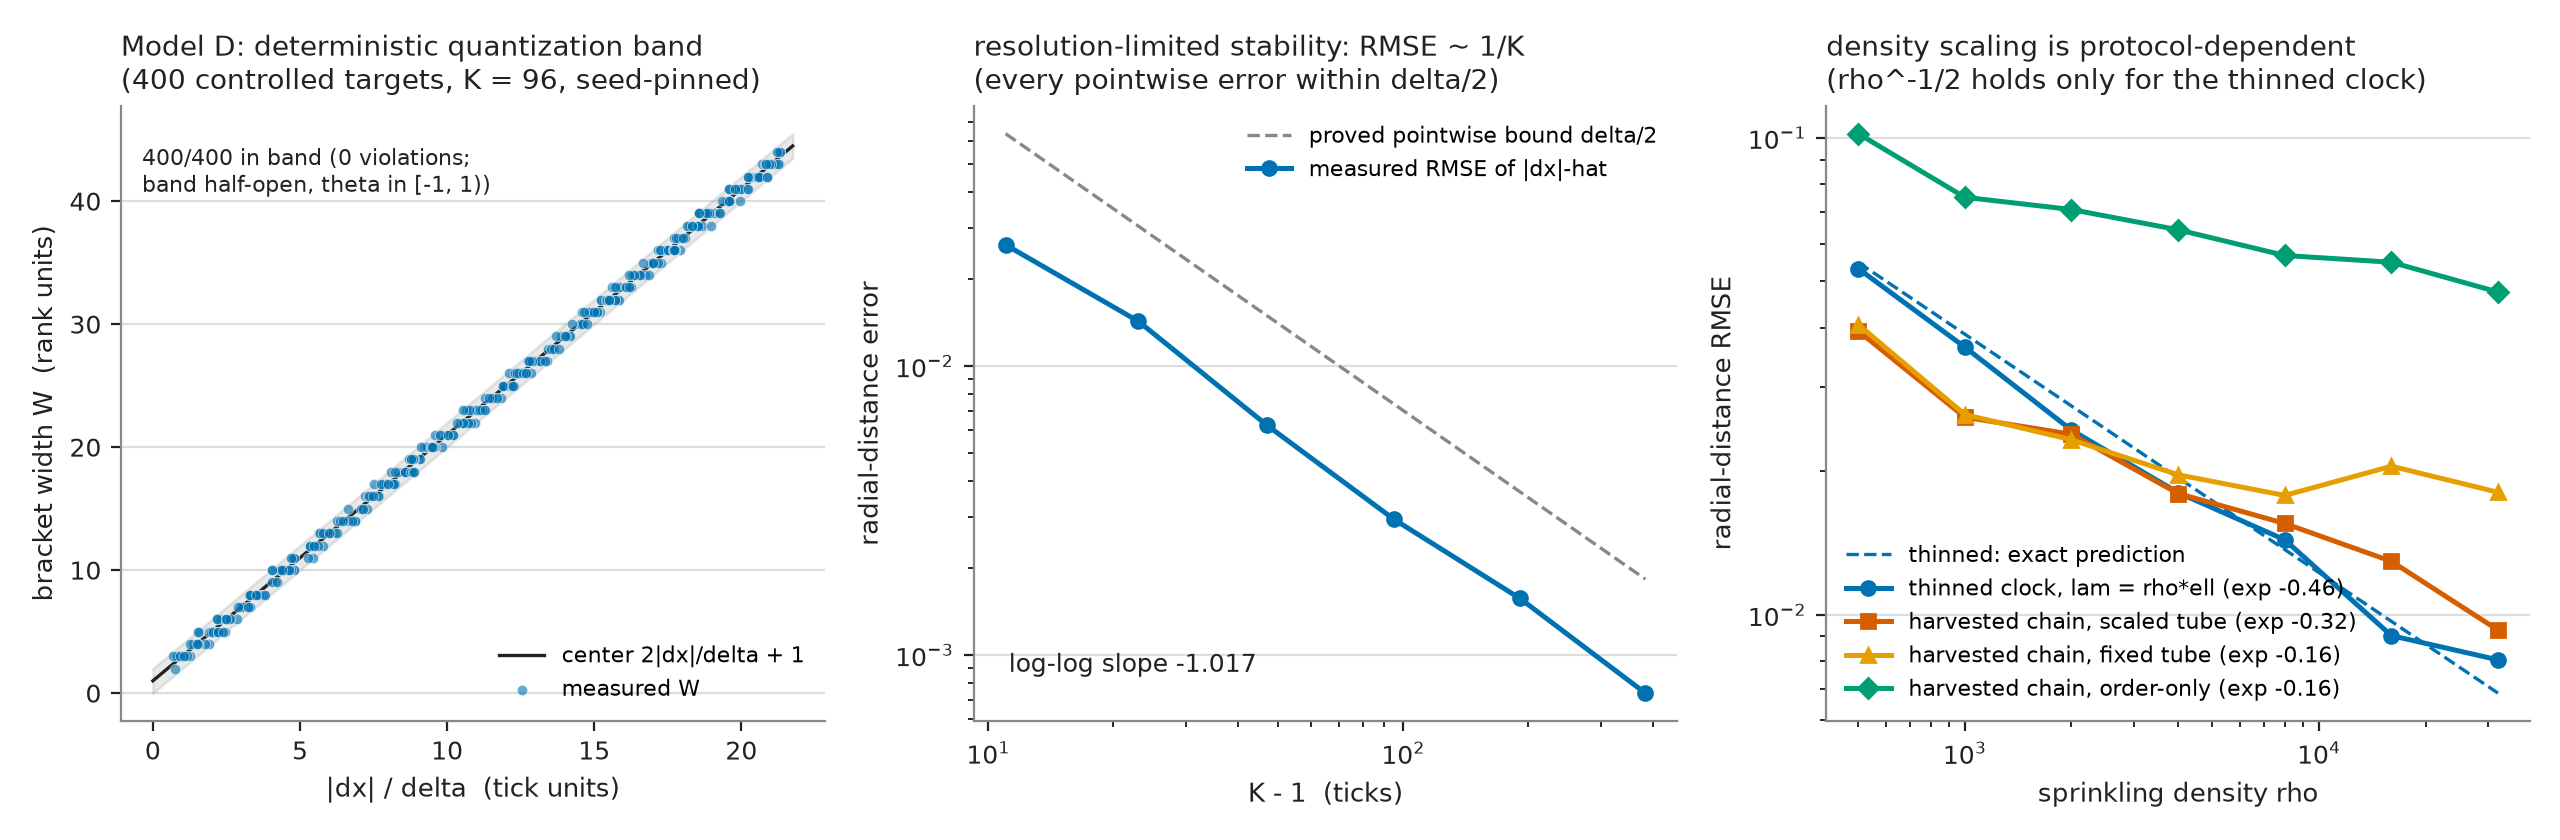
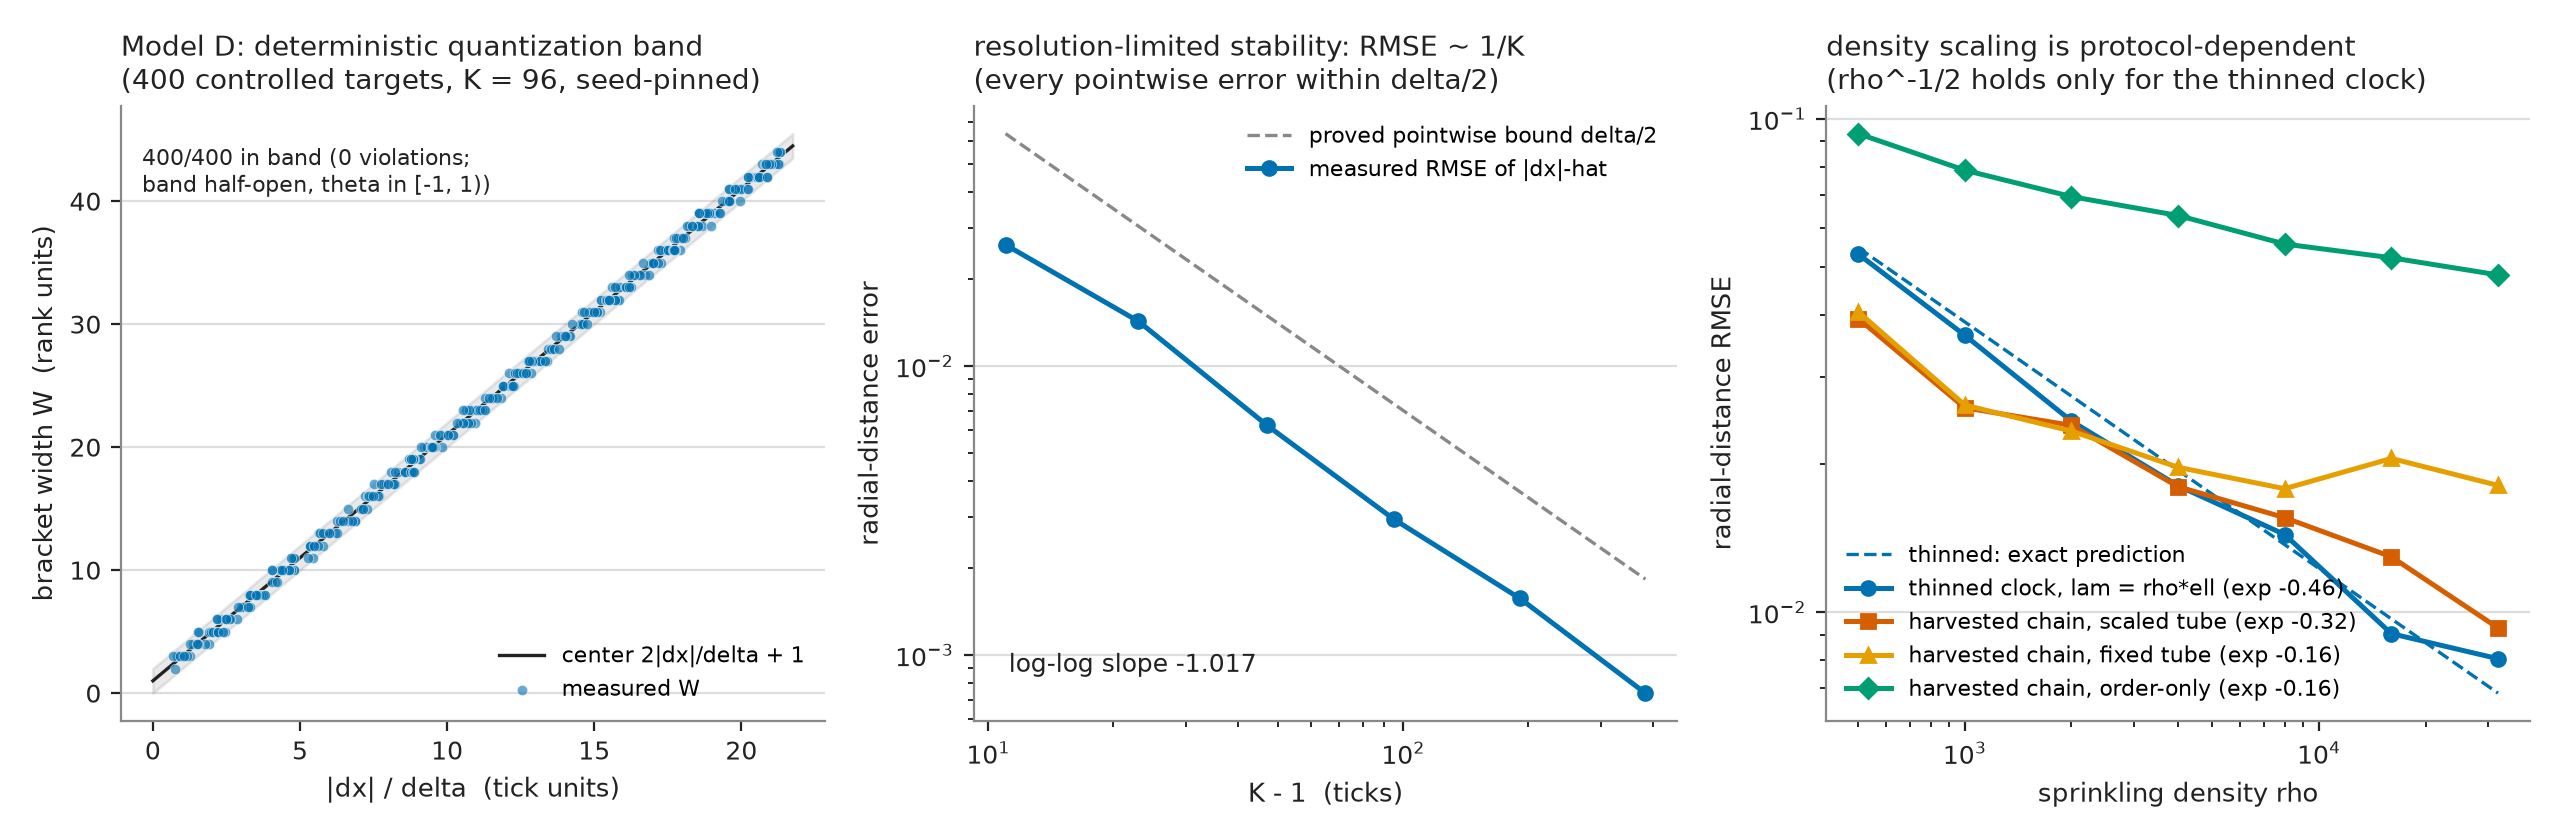
Order-only harvest: break maximum-chain ties by labels, not coordinates
Review catch (P1): with the (u, v)-sort patience-LIS, the choice AMONG
the typically many maximum chains depended on the embedding's
left-right structure -- information a labelled causal order does not
carry -- so a spatial reflection (order- and label-preserving) could
change the realized chain, and the 'order-only causal set reproduces
the harvest exactly' claim failed for the specific representative.

Fix (the review's first option, an explicit order/label tie-break):
compute B(x) = longest-chain length from x to the top anchor (an order
invariant; patience sorting remains the O(k log k) algorithm, with
coordinates only as the machine representation of the relation), then
reconstruct one maximum chain bottom-up, at each step taking the
candidate above the current element with B one less and the smallest
bulk index. Every ingredient is a function of (labelled order, anchor
designation); ties break by labels, never by coordinates. The
exchange-argument feasibility of each greedy step is noted inline.

Pinned: the constructor audit gains a reflection-invariance check
(5/5 scenes) and a new regression asserts index-identical harvests
under a spatial reflection AND a boost, alongside the existing
causal-matrix DP longest-chain length cross-check.

Re-measured with the label-based selector: chain length is a
tie-invariant, so the rate exponent is unchanged to the digit
(+0.516); the realized chains differ slightly -- transverse RMS
[…]

Changed region(s): [[0.6875, 0.2786, 1.0, 0.8048], [0.75, 0.1857, 1.0, 0.3714], [0.6875, 0.1238, 0.75, 0.1857]]

diff --git a/src/causal_spacetime_lab/density_coupled_clocks.py b/src/causal_spacetime_lab/density_coupled_clocks.py
@@ -153,17 +153,22 @@ def harvest_order_only_chain_1p1(
     itself (made once by the caller, e.g. via ``nearest_event_index``)
     and nothing else.
 
-    Implementation notes. In the 1+1D diamond the (generic) causal
-    order is the strict product order on lightcone coordinates
-    ``(u, v) = (t + x, t - x)``, so a longest chain is a longest
-    strictly-increasing-in-``v`` subsequence of the interior candidates
-    sorted by ``(u ascending, v descending)`` -- computed by patience
-    sorting in O(k log k). The coordinates enter only as an algorithm
-    for evaluating the order relation; the OUTPUT depends on the order
-    (plus the deterministic tie rule of that sort), so the harvest is a
-    pure function of its inputs. Among the typically many longest
-    chains this returns one canonical representative; that residual
-    choice is a tie-break, not extra geometric data.
+    Implementation notes. Every ingredient of the selection is a
+    function of the labelled order alone: interval membership (causal
+    comparability with the anchors), the per-element longest-chain
+    lengths ``B(x)`` = length of a longest chain from ``x`` to the top
+    anchor (an order invariant, computed in O(k log k) by patience
+    sorting on lightcone coordinates -- the coordinates enter only as
+    the machine representation of the order relation, and the computed
+    lengths do not depend on that representation), and, among the
+    typically many maximum chains, a greedy **minimal-label** choice:
+    the chain is built bottom-up, at each step taking the candidate
+    with ``B`` one less than the current element's that is above the
+    current element and has the smallest bulk index. Ties therefore
+    break by element LABELS, never by coordinates: relabelling can
+    change the representative, but coordinate presentations of the
+    same labelled order (e.g. a spatial reflection) cannot -- asserted
+    as a reflection-invariance audit and regression.
     """
 
     events = np.asarray(events, dtype=float)
@@ -187,35 +192,56 @@ def harvest_order_only_chain_1p1(
     if candidates.size == 0:
         return np.array([bottom, top], dtype=int)
 
-    sort = candidates[np.lexsort((-v[candidates], u[candidates]))]
-    vs = v[sort]
-    n = sort.size
-    parent = np.full(n, -1, dtype=int)
-    tails_v: list[float] = []
-    tails_pos: list[int] = []
-    for i in range(n):
-        lo, hi = 0, len(tails_v)
-        while lo < hi:  # bisect_left: first tail >= vs[i] (strict LIS)
+    su = u[candidates]
+    sv = v[candidates]
+    # B[i] = longest-chain length among candidates STARTING at i: an
+    # order invariant (ends-at lengths of the reversed order)
+    b_len = _strict_chain_lengths_ending_at(-su, -sv)
+    m = int(b_len.max())
+
+    # greedy minimal-label reconstruction of one maximum chain: at each
+    # step the feasible pool is nonempty by the exchange argument
+    # (any successor of the current element on a maximum chain has B
+    # exactly one less), and the pick reads labels only
+    chain_local: list[int] = []
+    cur = -1
+    for need in range(m, 0, -1):
+        pool = np.flatnonzero(b_len == need)
+        if cur >= 0:
+            pool = pool[(su[pool] > su[cur]) & (sv[pool] > sv[cur])]
+        pick = int(pool[np.argmin(candidates[pool])])
+        chain_local.append(pick)
+        cur = pick
+    interior = candidates[np.array(chain_local, dtype=int)]
+    return np.concatenate(([bottom], interior, [top])).astype(int)
+
+
+def _strict_chain_lengths_ending_at(
+    a: NDArray[np.float64], b: NDArray[np.float64]
+) -> NDArray[np.int_]:
+    """Length of the longest strict product-order chain ending at each
+    element (``x < y`` iff ``a_x < a_y`` and ``b_x < b_y``), by patience
+    sorting in O(k log k). The returned lengths are order invariants of
+    the input point set; the sort is internal machinery only."""
+
+    order = np.lexsort((-b, a))  # a ascending, b descending: no same-a chains
+    lengths = np.zeros(a.size, dtype=int)
+    tails: list[float] = []
+    for i in order:
+        value = float(b[i])
+        lo, hi = 0, len(tails)
+        while lo < hi:  # bisect_left: first tail >= value (strict chains)
             mid = (lo + hi) // 2
-            if tails_v[mid] < vs[i]:
+            if tails[mid] < value:
                 lo = mid + 1
             else:
                 hi = mid
-        if lo == len(tails_v):
-            tails_v.append(float(vs[i]))
-            tails_pos.append(i)
+        if lo == len(tails):
+            tails.append(value)
         else:
-            tails_v[lo] = float(vs[i])
-            tails_pos[lo] = i
-        parent[i] = tails_pos[lo - 1] if lo > 0 else -1
-
-    chain_local: list[int] = []
-    j = tails_pos[-1]
-    while j >= 0:
-        chain_local.append(j)
-        j = int(parent[j])
-    interior = sort[np.array(chain_local[::-1], dtype=int)]
-    return np.concatenate(([bottom], interior, [top])).astype(int)
+            tails[lo] = value
+        lengths[i] = lo + 1
+    return lengths
 
 
 def chain_is_causal(chain_events: NDArray[np.float64]) -> bool:

diff --git a/tests/test_t1_g2_density_scaling.py b/tests/test_t1_g2_density_scaling.py
@@ -144,6 +144,36 @@ def test_order_only_anchor_validation_rejects_non_causal_pairs():
     assert list(idx) == [0, 2]
 
 
+def test_order_only_harvest_is_invariant_under_order_preserving_maps():
+    """The review's counterexample class, pinned: a spatial reflection
+    (and a boost) preserves the labelled causal order and the anchors,
+    so the harvested chain -- whose tie-break among maximum chains
+    reads element labels, never coordinates -- must be identical
+    index-by-index across these coordinate presentations."""
+
+    for seed in (7, 21):
+        bulk = sprinkle_1p1_causal_diamond(2000, T=2.0, seed=seed)
+        bottom = nearest_event_index(bulk, -0.6, -0.3)
+        top = nearest_event_index(bulk, 0.6, -0.3)
+        idx = harvest_order_only_chain_1p1(bulk, bottom, top)
+
+        reflected = bulk.copy()
+        reflected[:, 1] = -reflected[:, 1]
+        assert np.array_equal(
+            idx, harvest_order_only_chain_1p1(reflected, bottom, top)
+        )
+
+        k = 1.7  # boost: (u, v) -> (k u, v / k) preserves the order
+        u = bulk[:, 0] + bulk[:, 1]
+        v = bulk[:, 0] - bulk[:, 1]
+        boosted = np.column_stack(
+            [(k * u + v / k) / 2.0, (k * u - v / k) / 2.0]
+        )
+        assert np.array_equal(
+            idx, harvest_order_only_chain_1p1(boosted, bottom, top)
+        )
+
+
 def test_order_only_audit_passes_with_dp_cross_validation():
     """The audit includes an independent causal-matrix DP length check:
     patience sorting must return an order-theoretic LONGEST chain."""

diff --git a/experiments/theory/t1_g2_density_scaling.py b/experiments/theory/t1_g2_density_scaling.py
@@ -138,11 +138,14 @@ def audit_harvested_chains(seed: int = 11, scenes: int = 5) -> dict:
 
 def audit_order_only_chains(seed: int = 13, scenes: int = 5) -> dict:
     """Constructor audit for the order-only harvest: chain property,
-    anchor endpoints, interval containment, determinism, and -- at low
-    density, where the matrix is affordable -- longest-chain LENGTH
-    equality against an independent causal-matrix DP (the patience-
-    sorting implementation must reproduce the order-theoretic optimum,
-    not just some chain)."""
+    anchor endpoints, interval containment, determinism, REFLECTION
+    invariance (a spatial reflection preserves the labelled order and
+    must preserve the harvested chain exactly -- the tie-break reads
+    labels, not coordinates), and -- at low density, where the matrix
+    is affordable -- longest-chain LENGTH equality against an
+    independent causal-matrix DP (the patience-sorting implementation
+    must reproduce the order-theoretic optimum, not just some
+    chain)."""
 
     rng = np.random.default_rng(seed)
     all_causal = True
@@ -150,6 +153,7 @@ def audit_order_only_chains(seed: int = 13, scenes: int = 5) -> dict:
     contained = True
     all_simple = True
     deterministic = True
+    reflection_invariant = True
     dp_lengths_match = True
     dp_checks = 0
     for _ in range(scenes):
@@ -163,6 +167,12 @@ def audit_order_only_chains(seed: int = 13, scenes: int = 5) -> dict:
         idx = harvest_order_only_chain_1p1(bulk, bottom, top)
         idx_again = harvest_order_only_chain_1p1(bulk, bottom, top)
         deterministic = deterministic and np.array_equal(idx, idx_again)
+        reflected = bulk.copy()
+        reflected[:, 1] = -reflected[:, 1]
+        idx_reflected = harvest_order_only_chain_1p1(reflected, bottom, top)
+        reflection_invariant = reflection_invariant and np.array_equal(
+            idx, idx_reflected
+        )
         chain = bulk[idx]
         all_causal = all_causal and chain_is_causal(chain)
         endpoints_ok = endpoints_ok and bool(
@@ -194,11 +204,12 @@ def audit_order_only_chains(seed: int = 13, scenes: int = 5) -> dict:
         "interval_contained": contained,
         "tick_times_strictly_increasing": all_simple,
         "harvest_deterministic": deterministic,
+        "reflection_invariant": reflection_invariant,
         "dp_length_checks": dp_checks,
         "dp_lengths_match": dp_lengths_match,
         "passed": bool(
             all_causal and endpoints_ok and contained and all_simple
-            and deterministic and dp_lengths_match
+            and deterministic and reflection_invariant and dp_lengths_match
         ),
     }
 

diff --git a/docs/theory/t1_parallax_identifiability.md b/docs/theory/t1_parallax_identifiability.md
@@ -590,8 +590,8 @@ and the law turns out to hold for exactly one of them
   longest-chain wandering is KPZ-class the transverse RMS about the
   anchor line falls like `rho^{-1/6}` (diffusive alternative:
   `rho^{-1/4}`). Measured: rate exponent `+0.516`; **transverse RMS
-  exponent `-0.176`, within `0.01` of the KPZ wandering value `-1/6`
-  and clearly excluding `-1/4`**; RMSE exponent `-0.162` with RMSE
+  exponent `-0.172`, within `0.01` of the KPZ wandering value `-1/6`
+  and clearly excluding `-1/4`**; RMSE exponent `-0.155` with RMSE
   approximately equal to the transverse RMS at *every* density — the
   free clock's error is wandering-dominated end to end.
   `[MEASURED, for the order-only protocol]`
@@ -608,11 +608,11 @@ now separate the mechanisms.
   nearer `-1/3`, still not sharply distinguished — the one item left
   open.
 - The **order-only chain** frees the wandering, and the wandering wins:
-  transverse RMS `~ rho^{-0.176}` (KPZ `-1/6`), RMSE locked to it.
+  transverse RMS `~ rho^{-0.172}` (KPZ `-1/6`), RMSE locked to it.
 - The **fixed tube**'s `-0.165` is thereby *explained as a mixture
   artifact*: its transverse RMS is flat in `rho` (a constant-width
   wiggle floor), so its shallow exponent comes from mixing a decaying
-  count term with a floor — numerically near the order-only `-0.162`,
+  count term with a floor — numerically near the order-only `-0.155`,
   but by a different mechanism entirely. Two nearly equal exponents,
   two distinct origins: exponents alone do not identify mechanisms.
 
@@ -653,8 +653,8 @@ Any density-scaling claim must name its clock protocol.
   designated anchor events; selection reads order data alone once the
   anchors are labelled) is built, audited with a causal-matrix DP
   cross-check, and measured — rate exponent `+0.516`; transverse RMS
-  exponent `-0.176`, identifying the wandering as KPZ-class (`-1/6`,
-  with the diffusive `-1/4` excluded); RMSE exponent `-0.162`,
+  exponent `-0.172`, identifying the wandering as KPZ-class (`-1/6`,
+  with the diffusive `-1/4` excluded); RMSE exponent `-0.155`,
   wandering-dominated at every density. What remains non-order data in
   that protocol is the anchor *designation* alone. *Remaining open,
   one item:* the harvested chain's **count**-fluctuation class
@@ -841,9 +841,9 @@ The harness (`experiments/theory/t1_verification.py`, regression tests in
     clean including the causal-matrix DP longest-chain cross-check
     (5/5 scenes). Same grid and seeds as item 9, fourth arm: rate
     exponent `+0.516` (discreteness scale, expectation E1 met);
-    RMSE exponent `-0.162`, distinctly shallower than the thinned
+    RMSE exponent `-0.155`, distinctly shallower than the thinned
     `-0.463` (E2 met) and shallower than the scaled tube's `-0.317`
-    (directional E3 met); transverse RMS exponent `-0.176` — within
+    (directional E3 met); transverse RMS exponent `-0.172` — within
     `0.01` of the KPZ wandering value `-1/6` and clearly excluding
     the diffusive `-1/4` — with RMSE approximately equal to the
     transverse RMS at every density (wandering-dominated error). The
@@ -992,11 +992,11 @@ pinned in CI as exact (non-statistical) regressions.
     DP so the output is an order-theoretic longest chain, not merely
     some chain. Expectations were stated in the experiment header
     before the grid ran: discreteness-scale rate (met, `+0.516`);
-    error distinctly shallower than `rho^{-1/2}` (met, `-0.162`); and
+    error distinctly shallower than `rho^{-1/2}` (met, `-0.155`); and
     the directional KPZ test — with the tube constraint removed, the
     chain's transverse RMS about the anchor line should fall like
     `rho^{-1/6}` if longest-chain wandering is KPZ-class, `rho^{-1/4}`
-    if diffusive. Measured: `-0.176`, within `0.01` of `-1/6`,
+    if diffusive. Measured: `-0.172`, within `0.01` of `-1/6`,
     excluding `-1/4`; and the RMSE tracks the transverse RMS at every
     density, so the free harvested clock's error is
     wandering-dominated. This also *explains* the fixed tube's

diff --git a/docs/next_experiments_plan.md b/docs/next_experiments_plan.md
@@ -83,8 +83,8 @@ Execution update (2026-07-17):
   longest chain between two designated anchor events — selection reads
   order data alone — was built, audited (causal-matrix DP
   cross-check), and measured on the same rho grid. Pre-stated KPZ test
-  met: transverse RMS exponent -0.176 vs the KPZ wandering value -1/6
-  (diffusive -1/4 excluded); the free clock's RMSE (-0.162) is
+  met: transverse RMS exponent -0.172 vs the KPZ wandering value -1/6
+  (diffusive -1/4 excluded); the free clock's RMSE (-0.155) is
   wandering-dominated at every density, and the fixed tube's -0.165 is
   thereby explained as a mixture artifact. Remaining open in G2: the
   count-fluctuation class only (-1/4 vs -1/3; scaled tube measures

diff --git a/docs/paper/paper_b/manuscript.md b/docs/paper/paper_b/manuscript.md
@@ -981,8 +981,8 @@ grid ran, directionally for the fluctuation mechanism: freed from the
 tube, the chain wanders, and KPZ-class wandering predicts a transverse
 RMS about the anchor line falling like rho^{-1/6} against a diffusive
 rho^{-1/4}. Measured: rate exponent +0.516 (discreteness scale, as for
-the tube arms); transverse RMS exponent **-0.176**, within 0.01 of the
-KPZ value -1/6 and clearly excluding -1/4; and RMSE exponent -0.162
+the tube arms); transverse RMS exponent **-0.172**, within 0.01 of the
+KPZ value -1/6 and clearly excluding -1/4; and RMSE exponent -0.155
 with the RMSE approximately equal to the transverse RMS at every
 density — the free harvested clock's error is wandering-dominated end
 to end. This also explains the fixed tube's -0.165 as a mixture